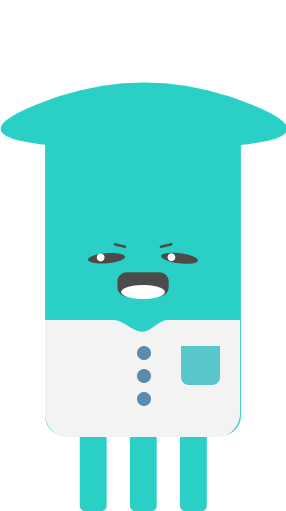
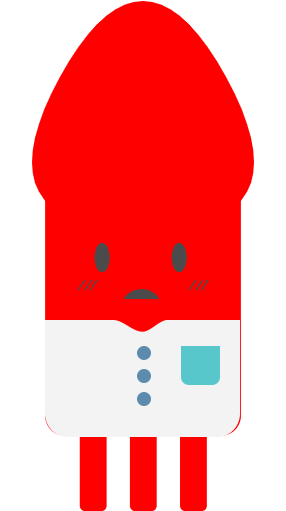
完成對話好友功能動畫及對話泡泡&隨機定位

diff --git a/sass/style.scss b/sass/style.scss
@@ -2110,16 +2110,54 @@ $num-particles: 20; //煙的數量
 }
 
 .loginSquid {
-  position: fixed;
+  position: absolute;
   width: 120px;
   top: 250px;
   left: calc(50% - 60px);
-  z-index: 1000;
+  z-index: 100;
   text-align: center;
   img {
     width: 80%;
   }
+  .talkingBubble {
+    position: absolute;
+    left: 90%;
+    width: 120%;
+    bottom: 60%;
+    box-sizing: border-box;
+    p {
+      display: inline-block;
+      padding: 5%;
+      border: 4px solid #fa7979;
+      background-color: #fff;
+      border-radius: 10px;
+    }
+  }
+  .roleName {
+    display: inline-block;
+    padding: 20px 20px 5px;
+    color: #fff;
+    font: 20px;
+  }
+  .talkingBubble.invisible {
+    display: none;
+  }
+}
+
+.otherSquid {
+  position: absolute;
+  width: 120px;
+  // top: 100px;
+  // left: 300px;
+  z-index: 100;
+  text-align: center;
+  cursor: pointer;
+  img {
+    width: 80%;
+  }
   .onlineFuns {
+    opacity: 0;
+    transition: 0.3s;
     .funIcon {
       display: inline-block;
       width: 30%;
@@ -2132,16 +2170,9 @@ $num-particles: 20; //煙的數量
       box-sizing: border-box;
       border-radius: 50%;
       text-align: center;
-      &:first-child {
-        margin-left: 0;
-        position: relative;
-        top: 20px;
-      }
-      &:last-child {
-        margin-right: 0;
-        position: relative;
-        top: 20px;
-      }
+      position: relative;
+      top: 40px;
+      transition: 0.3s;
       &::before {
         content: "";
         display: inline-block;
@@ -2153,6 +2184,53 @@ $num-particles: 20; //煙的數量
         width: 100%;
         vertical-align: middle;
       }
+    }
+    .goRoom {
+      margin-left: 0;
+      position: relative;
+      // top: 20px;
+      // top: 15%;
+      left: 35%;
+    }
+    .mute {
+      margin-right: 0;
+      position: relative;
+      // top: 20px;
+      right: 35%;
+    }
+  }
+  &:hover .onlineFuns {
+    opacity: 1;
+    .funIcon {
+      top: 0;
+      animation: bubbling 2s both infinite;
+    }
+    .goRoom {
+      left: 0;
+      top: 20px;
+      animation: bubbling 2s 0.666666s both infinite;
+    }
+    .mute {
+      right: 0;
+      top: 20px;
+      animation: bubbling 2s 1.333332s both infinite;
+    }
+  }
+  @keyframes bubbling {
+    0% {
+      transform: translateY(0%);
+    }
+    25% {
+      transform: translateY(5%);
+    }
+    50% {
+      transform: translateY(0%);
+    }
+    75% {
+      transform: translateY(-5%);
+    }
+    100% {
+      transform: translateY(0%);
     }
   }
   .talkingBubble {
@@ -2168,6 +2246,13 @@ $num-particles: 20; //煙的數量
       background-color: #fff;
       border-radius: 10px;
     }
+  }
+  .roleName {
+    display: inline-block;
+    padding: 20px 20px 5px;
+    color: #fff;
+    text-shadow: 0px 0px 3px #666;
+    font: 20px;
   }
   .talkingBubble.invisible {
     display: none;

diff --git a/js/rolePosition.js b/js/rolePosition.js
@@ -1,0 +1,14 @@
+const randPos = () => {
+  const x = Math.random() * (innerWidth - 200);
+  const y = 100 + Math.random() * (innerHeight - 300);
+  return { x, y };
+};
+
+console.log(innerHeight);
+
+console.log(randPos().x, randPos().y);
+
+$(".otherSquid").css({
+  top: randPos().y,
+  left: randPos().x
+});

diff --git a/index.php b/index.php
@@ -1,8 +1,20 @@
 <?php
+    session_start();
+    $_SESSION["mem_no"] = 24;
+    $mem_no = $_SESSION["mem_no"];
     $errMsg = '';
     try {
         require_once('connectSquid.php');
-        // echo "連線成功";
+        $sql = 
+        "SELECT *
+        FROM member
+        WHERE mem_no NOT IN(:mem_no)
+        ORDER BY RAND()
+        LIMIT 1"; 
+        $member = $pdo->prepare($sql);
+        $member->bindValue(":mem_no", $mem_no);
+        $member->execute();
+        $memRow = $member->fetch(PDO::FETCH_ASSOC);
     } catch(PDOException $e) {
         $errMsg .= $e->getMessage()."<br>";
         $errMsg .= $e->getLine()."<br>";
@@ -28,15 +40,24 @@
 
 <body>
     <div class="loginSquid">
-        <div class="onlineFuns">
-            <a class="funIcon goRoom" href="javascript:;" class="onlineFunction"><img src="imgs/characters/goRoomIcon.png" alt="看房間"></a >
-            <a class="funIcon addFriend" href="javascript:;" class="onlineFunction"><img src="imgs/characters/addFriendIcon.png" alt="加好友"></a >
-            <a class="funIcon mute" href="javascript:;" class="onlineFunction"><img src="imgs/characters/muteIcon.png" alt="靜音"></a >
-        </div>
-        <div class="talkingBubble">
-            <p>哈囉哈囉</p>
-        </div>
+      <div class="talkingBubble">
+          <p>哈囉哈囉</p>
+      </div>
+      <span class="roleName"><?php $memRow["mem_name"] ?></span>
       <img id="myRole" src="" alt="Penny">
+    </div>
+      
+    <div class="otherSquid">
+      <div class="onlineFuns">
+        <a class="funIcon goRoom" href="javascript:;" class="onlineFunction"><img src="imgs/characters/goRoomIcon.png" alt="看房間"></a >
+        <a class="funIcon addFriend" href="javascript:;" class="onlineFunction"><img src="imgs/characters/addFriendIcon.png" alt="加好友"></a >
+        <a class="funIcon mute" href="javascript:;" class="onlineFunction"><img src="imgs/characters/muteIcon.png" alt="靜音"></a >
+      </div>
+      <div class="talkingBubble">
+        <p>媽的好辣喔</p>
+      </div>
+      <span class="roleName"><?php echo $memRow["mem_name"] ?></span>
+      <img id="myRole" src="<?php echo $memRow["style_no"] ?>" alt="Penny">
     </div>
 
     <div class="common_cursor"></div>
@@ -1044,6 +1065,7 @@
     <!-- <script src="js/chatbot.js"></script> -->
     <script src="js/chat.js"></script>
     <script src="js/roleFunctions.js"></script>
+    <script src="js/rolePosition.js"></script>
 </body>
 
 </html>

diff --git a/connectSquid.php b/connectSquid.php
@@ -1,7 +1,7 @@
 <?php
-        $dsn = 'mysql:host=sql.uerica.com;port=3306;dbname=dd101g2;charset=utf8';
-        $user = 'dd101g2';
-        $password = 'dd101g2';
+        $dsn = 'mysql:host=localhost;port=3306;dbname=dd101g2;charset=utf8';
+        $user = 'Benson';
+        $password = 'Benson123';
         $options = array(PDO::ATTR_ERRMODE => PDO::ERRMODE_EXCEPTION, PDO::ATTR_CASE => PDO::CASE_NATURAL);
         $pdo = new PDO($dsn, $user, $password, $options);
 ?>
